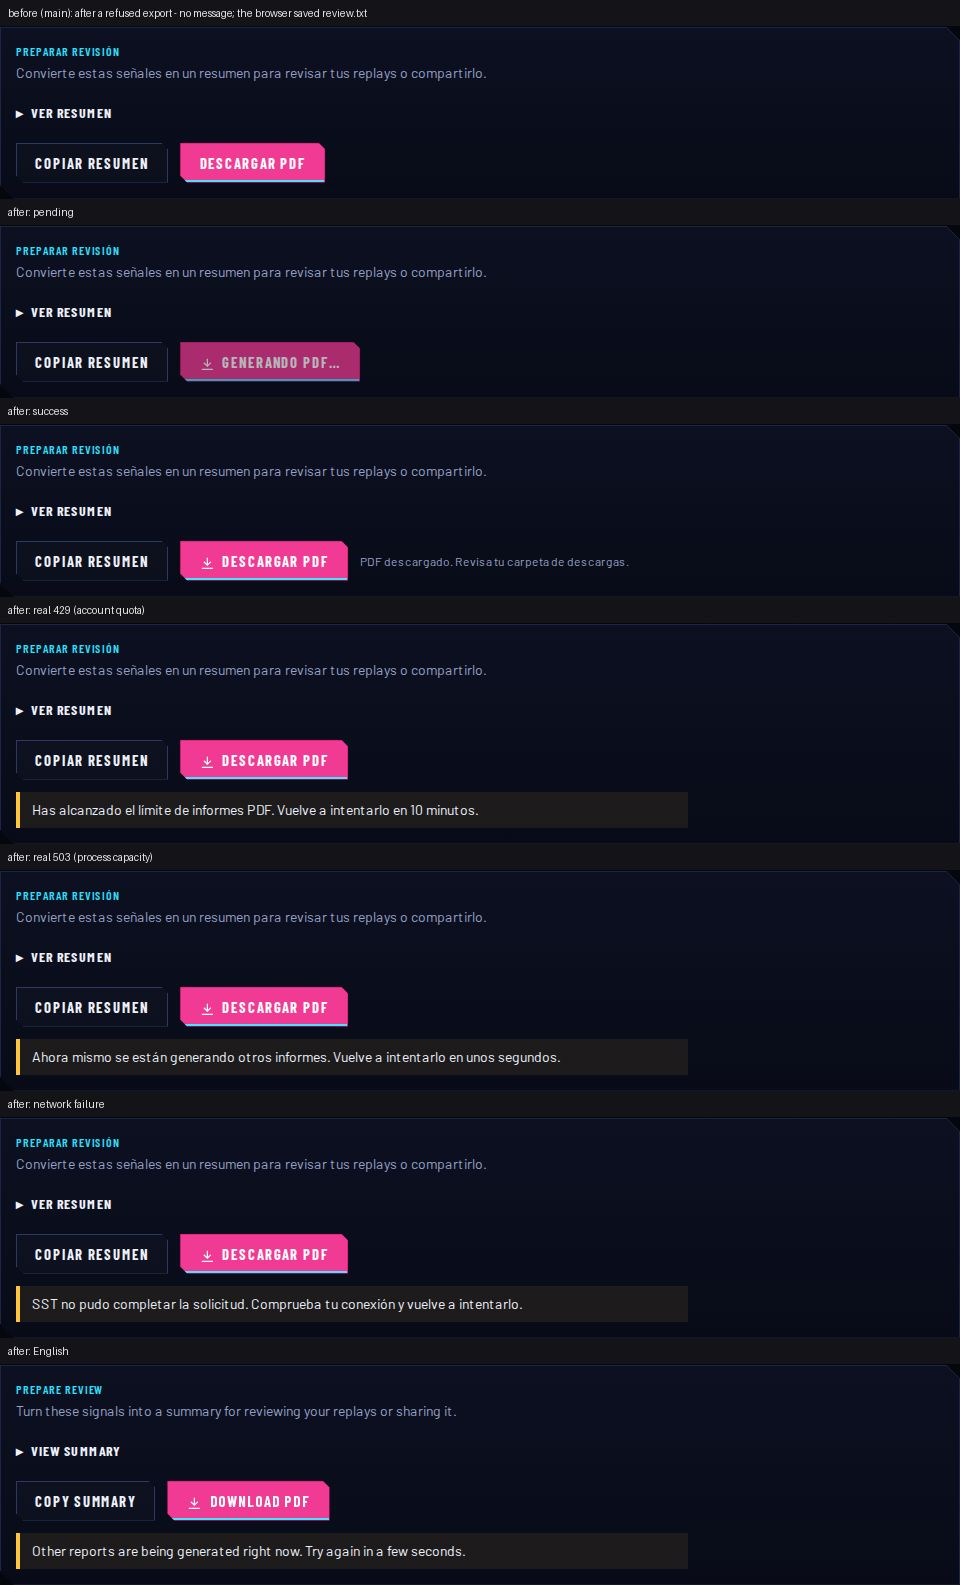
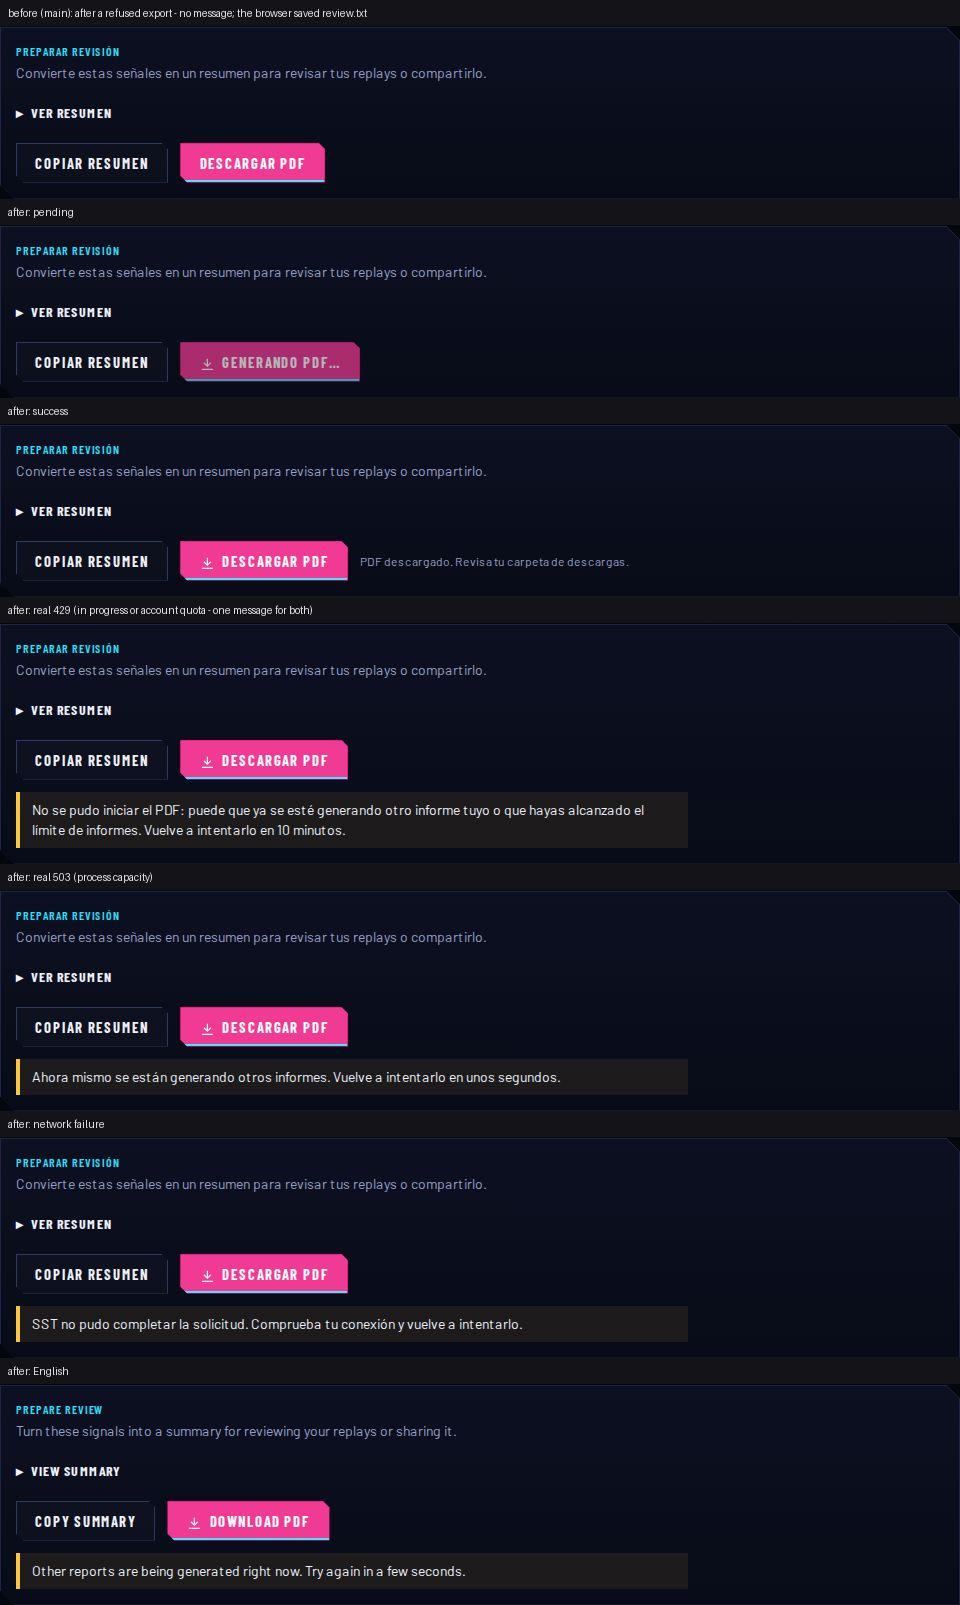
fix(analytics): name both 429 causes in the PDF export message
The server answers 429 both when this account's export is already in progress
(subject_busy) and when the account quota is reached; the client cannot tell them apart
without reading the (untrusted) body, so "you have reached the limit" was wrong for the
first case. The ES/EN 429 messages now name both possibilities and keep the validated
Retry-After delay (seconds / minutes / none). Status mapping, other messages and every
server control are unchanged.

diff --git a/src/app/(app)/dashboard/analytics/_components/ReviewExportActions.test.tsx b/src/app/(app)/dashboard/analytics/_components/ReviewExportActions.test.tsx
@@ -213,21 +213,6 @@ describe("PDF export", () => {
 
   it.each([
     [
-      "429 with Retry-After seconds",
-      refusal(429, "x", { "Retry-After": "5" }),
-      "Has alcanzado el límite de informes PDF. Vuelve a intentarlo en 5 segundos.",
-    ],
-    [
-      "429 with Retry-After minutes",
-      refusal(429, "x", { "Retry-After": "540" }),
-      "Has alcanzado el límite de informes PDF. Vuelve a intentarlo en 9 minutos.",
-    ],
-    [
-      "429 without Retry-After",
-      refusal(429, "x"),
-      "Has alcanzado el límite de informes PDF. Espera un poco antes de volver a intentarlo.",
-    ],
-    [
       "503 capacity",
       refusal(503, "x", { "Retry-After": "5" }),
       "Ahora mismo se están generando otros informes. Vuelve a intentarlo en unos segundos.",
@@ -256,6 +241,37 @@ describe("PDF export", () => {
     expect(status.textContent).toBe("");
     expect(saved).toEqual([]);
     expect(created).toEqual([]);
+  });
+
+  describe("429: one message for both server causes (export in progress / account quota)", () => {
+    const CAUSE = {
+      es: "No se pudo iniciar el PDF: puede que ya se esté generando otro informe tuyo o que hayas alcanzado el límite de informes.",
+      en: "The PDF could not be started: another of your reports may still be generating, or you may have reached the report limit.",
+    };
+    it.each([
+      ["es", "1", `${CAUSE.es} Vuelve a intentarlo en 1 segundo.`],
+      ["es", "5", `${CAUSE.es} Vuelve a intentarlo en 5 segundos.`],
+      ["es", "60", `${CAUSE.es} Vuelve a intentarlo en 1 minuto.`],
+      ["es", "540", `${CAUSE.es} Vuelve a intentarlo en 9 minutos.`],
+      ["es", null, `${CAUSE.es} Espera un poco antes de volver a intentarlo.`],
+      ["es", "soon", `${CAUSE.es} Espera un poco antes de volver a intentarlo.`],
+      ["en", "1", `${CAUSE.en} Try again in 1 second.`],
+      ["en", "30", `${CAUSE.en} Try again in 30 seconds.`],
+      ["en", "61", `${CAUSE.en} Try again in 2 minutes.`],
+      ["en", "600", `${CAUSE.en} Try again in 10 minutes.`],
+      ["en", null, `${CAUSE.en} Wait a little before trying again.`],
+    ] as const)("%s · Retry-After %s", async (locale, retryAfter, message) => {
+      // Either server body (in progress / quota): the client never reads it.
+      stubFetch(async () =>
+        refusal(429, "server text", retryAfter === null ? {} : { "Retry-After": retryAfter }),
+      );
+      const { pdf, error } = mount({ locale });
+      await press(pdf);
+      expect(error.textContent).toBe(message);
+      expect(error.getAttribute("role")).toBe("alert");
+      expect(saved).toEqual([]);
+      expect(pdf.getAttribute("aria-disabled")).toBeNull();
+    });
   });
 
   it("the server's error body is never rendered (untrusted), not even as text", async () => {
@@ -314,7 +330,9 @@ describe("PDF export", () => {
     const { pdf, error } = mount({ locale: "en" });
     expect(pdf.textContent).toBe("Download PDF");
     await press(pdf);
-    expect(error.textContent).toBe("You have reached the PDF report limit. Try again in 1 second.");
+    expect(error.textContent).toBe(
+      "The PDF could not be started: another of your reports may still be generating, or you may have reached the report limit. Try again in 1 second.",
+    );
     stubFetch(async () => {
       throw new TypeError("offline");
     });

diff --git a/src/app/(app)/dashboard/analytics/_components/review-pdf-download.ts b/src/app/(app)/dashboard/analytics/_components/review-pdf-download.ts
@@ -32,7 +32,11 @@ export function retryAfterSeconds(header: string | null): number | null {
   return seconds > 0 && seconds <= MAX_RETRY_SECONDS ? seconds : null;
 }
 
-/** The localized message for a refused / failed export, from the status (never the body). */
+/**
+ * The localized message for a refused / failed export, from the status (never the body). A 429
+ * has two server causes — this account's export already in progress (`subject_busy`) or the
+ * account quota — that the client cannot tell apart, so its message names both.
+ */
 export function exportErrorFor(status: number, retryAfter: string | null): ExportError {
   if (status === 429) {
     const seconds = retryAfterSeconds(retryAfter);

diff --git a/src/app/(app)/dashboard/analytics/_components/review-pdf-download.test.ts b/src/app/(app)/dashboard/analytics/_components/review-pdf-download.test.ts
@@ -13,7 +13,7 @@ import {
 } from "./review-pdf-download";
 
 describe("exportErrorFor", () => {
-  it("429 → wait message, with the server's Retry-After in seconds or whole minutes", () => {
+  it("429 (in progress OR quota: indistinguishable) → one message, Retry-After as seconds or whole minutes", () => {
     expect(exportErrorFor(429, "5")).toEqual({ key: "export.rateLimitedSeconds", count: 5 });
     expect(exportErrorFor(429, "59")).toEqual({ key: "export.rateLimitedSeconds", count: 59 });
     expect(exportErrorFor(429, "60")).toEqual({ key: "export.rateLimitedMinutes", count: 1 });

diff --git a/design/phase-m2/m2c.md b/design/phase-m2/m2c.md
@@ -26,16 +26,16 @@ the server correctly refused the 6th and 7th. The browser then **saved the error
 
 ## Behaviour now
 
-|                       | Before                         | After                                                                                                      |
-| --------------------- | ------------------------------ | ---------------------------------------------------------------------------------------------------------- |
-| Click                 | browser download, no feedback  | «Generando PDF…» on the control (`aria-busy`, `aria-disabled`), announced                                  |
-| Repeated clicks       | each one a new request         | ignored while one is pending (1 request)                                                                   |
-| Success               | file saved                     | the same server file and filename; «PDF descargado. Revisa tu carpeta de descargas.»                       |
-| 429                   | `review.txt` saved, no message | «Has alcanzado el límite de informes PDF. Vuelve a intentarlo en N minutos/segundos.» (from `Retry-After`) |
-| 503                   | `review.txt` saved, no message | the existing «Ahora mismo se están generando otros informes…»                                              |
-| 409 / 401 / other     | file saved with the error text | no-signals message / session expired / generic «No se pudo generar el PDF»                                 |
-| Network failure       | browser «failed»               | «SST no pudo completar la solicitud. Comprueba tu conexión…»                                               |
-| 200 that is not a PDF | saved as `.pdf`                | nothing saved, «La respuesta no era un PDF válido…»                                                        |
+|                       | Before                         | After                                                                                                                                                                                      |
+| --------------------- | ------------------------------ | ------------------------------------------------------------------------------------------------------------------------------------------------------------------------------------------ |
+| Click                 | browser download, no feedback  | «Generando PDF…» on the control (`aria-busy`, `aria-disabled`), announced                                                                                                                  |
+| Repeated clicks       | each one a new request         | ignored while one is pending (1 request)                                                                                                                                                   |
+| Success               | file saved                     | the same server file and filename; «PDF descargado. Revisa tu carpeta de descargas.»                                                                                                       |
+| 429                   | `review.txt` saved, no message | «No se pudo iniciar el PDF: puede que ya se esté generando otro informe tuyo o que hayas alcanzado el límite de informes. Vuelve a intentarlo en N minutos/segundos.» (from `Retry-After`) |
+| 503                   | `review.txt` saved, no message | the existing «Ahora mismo se están generando otros informes…»                                                                                                                              |
+| 409 / 401 / other     | file saved with the error text | no-signals message / session expired / generic «No se pudo generar el PDF»                                                                                                                 |
+| Network failure       | browser «failed»               | «SST no pudo completar la solicitud. Comprueba tu conexión…»                                                                                                                               |
+| 200 that is not a PDF | saved as `.pdf`                | nothing saved, «La respuesta no era un PDF válido…»                                                                                                                                        |
 
 ## Implementation
 
@@ -48,6 +48,10 @@ The implementation is `ReviewExportActions.tsx` plus the pure helpers in `review
   - `credentials: "same-origin"`, `cache: "no-store"`;
   - the same session cookie, the same route, the same server limits;
   - no new endpoint and no new dependency.
+- **One 429 message for two causes.** The server answers 429 both when this account's export is
+  already in progress (`subject_busy`) and when the account quota is reached. Without reading the
+  body the client cannot tell them apart, so the message names both possibilities and gives the
+  `Retry-After` delay.
 - **Errors map from the status only.** The response body is never rendered, not even as text: it
   is untrusted, and the client has its own catalog messages. `Retry-After` is read only as
   delay-seconds (1 s to 24 h); otherwise the message has no time.
@@ -101,13 +105,15 @@ revoked.
   - PDF validation;
   - request options;
   - network failure vs abort.
-- `ReviewExportActions.test.tsx` (29, replaces 4):
+- `ReviewExportActions.test.tsx` (37, replaces 4):
   - copy (unchanged);
   - success with the server filename;
   - 4 fallback-filename cases;
   - object URL revoked by timer and on unmount;
   - pending state and duplicate clicks;
-  - 8 refusal and error statuses;
+  - 429 naming both causes, ES/EN, with `Retry-After` 1 s / N s / 1 min / N min / missing /
+    invalid (11 cases);
+  - the other refusal and error statuses (503, 409, 401, 500, 404);
   - an untrusted body is never rendered;
   - network failure;
   - 3 not-a-PDF cases;
@@ -125,7 +131,8 @@ revoked.
   - a real PDF with the server filename;
   - success announced;
   - keyboard Enter and focus kept;
-  - the **real 429** (quota, «10 minutos») and the **real 503** (process gate), statuses
+  - the **real 429** (here the quota; message naming both causes, «10 minutos») and the
+    **real 503** (process gate), statuses
     `200 ×5, 429, 503`;
   - the alert linked to the control;
   - network failure (simulated);
